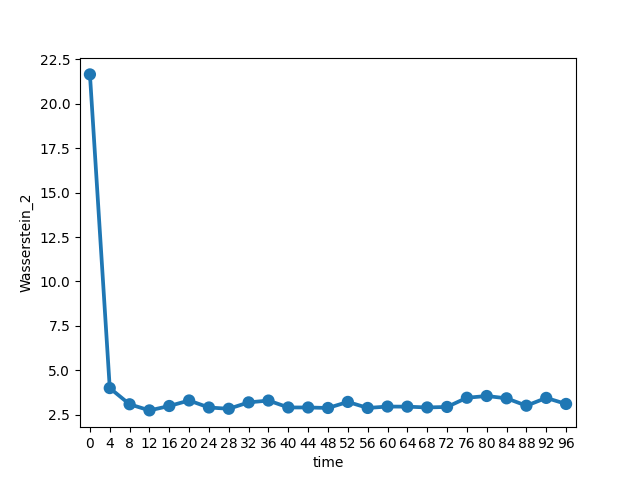
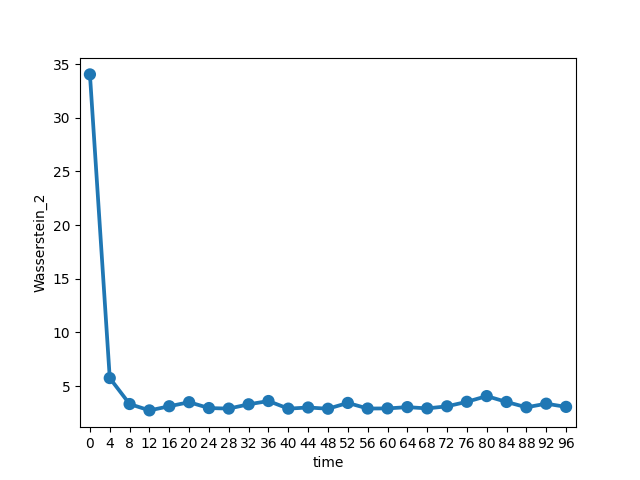
s-div_tf

diff --git a/modules/wasserstein.py b/modules/wasserstein.py
@@ -1,35 +1,5 @@
 import tensorflow as tf
 import numpy as np
-from itertools import permutations
-
-from tensorflow.python.ops.math_ops import reduce_logsumexp
-
-def sample_integers(n, shape):
-    sample = tf.random_uniform(shape, minval=0, maxval=tf.cast(n, 'float32'))
-    sample = tf.cast(sample, 'int32')
-    return sample
-
-def resample_rows_per_column(x):
-    """Permute all rows for each column independently."""
-    n_batch = tf.shape(x)[0]
-    n_dim = tf.shape(x)[1]
-    row_indices = sample_integers(n_batch, (n_batch * n_dim,))
-    col_indices = tf.tile(tf.range(n_dim), [n_batch])
-    indices = tf.transpose(tf.stack([row_indices, col_indices]))
-    x_perm = tf.gather_nd(x, indices)
-    x_perm = tf.reshape(x_perm, (n_batch, n_dim))
-    return x_perm
-
-def z_score(x):
-    """
-    Z_scores each dimension of the data (across axis 0)
-    """
-    #mean_vals = tf.reduce_mean(x,axis=0,keep_dims=True)
-    #std_vals = tf.sqrt(tf.reduce_var(x,axis=0,keep_dims=True))
-    mean_vals,var_vals = tf.nn.moments(x,axes=[0],keep_dims=True)
-    std_vals = tf.sqrt(var_vals)
-    x_normalized = (x - mean_vals)/std_vals
-    return x_normalized
 
 def cost_matrix(x, y, p=2):
     "Returns the cost matrix C_{ij}=|x_i - y_j|^p"
@@ -87,8 +57,84 @@ def sinkhorn_loss(x, y, x_weights=None, y_weights=None, epsilon=0.01, num_iters=
     cost = tf.reduce_sum(pi*C)
     return cost
 
+def compute_cost_matrix(x, y, p=2):
+    m, n = len(x), len(y)
+    c = np.ones((n, m))
+    for i in range(n):
+        for j in range(m):
+            c[i][j] = (np.abs(x[i] - y[j])**p).sum()
+    return c
+
+def lse(x):
+    return np.log(np.exp(x).sum())
+
+def sinkhorn_div_tf(x, y, alpha=None, beta=None, epsilon=0.01, num_iters=50, p=2):
+    c = cost_matrix(x, y, p=p)
+    n, m = x.shape[0], y.shape[0]
+    if alpha is None:
+        alpha = tf.fill((n), 1./n)
+
+    if beta is None:
+        beta = tf.fill((n), 1./n)
+
+    log_alpha = tf.expand_dims(tf.math.log(alpha), 1)
+    log_beta = tf.math.log(beta)
+
+    f, g = 0. * alpha, 0. * beta
+    for _ in range(num_iters):
+        f = - epsilon * tf.reduce_logsumexp(log_beta + (g - c) / epsilon, axis=1)
+        g = - epsilon * tf.reduce_logsumexp(log_alpha + (tf.expand_dims(f, 1) - c) / epsilon, axis=0)
+
+    OT_alpha_beta = tf.reduce_sum(f * alpha) + tf.reduce_sum(g * beta)
+    
+    c = cost_matrix(x, x, p=p)
+    f = 0. * alpha
+    log_alpha = tf.squeeze(log_alpha)
+    for _ in range(int(num_iters/5)):
+        f = 0.5 * (f - epsilon * tf.reduce_logsumexp(log_alpha + (f - c) / epsilon, axis=1) )
+
+    c = cost_matrix(y, y, p=p)
+    g = 0. * alpha
+    for _ in range(int(num_iters/5)):
+        g = 0.5 * (g - epsilon * tf.reduce_logsumexp(log_beta + (g - c) / epsilon, axis=1) )
+    
+    return OT_alpha_beta - tf.reduce_sum(f * alpha) - tf.reduce_sum(g * beta)
+
+
 def sinkhorn_div(x, y, alpha=None, beta=None, epsilon=0.01, num_iters=50, p=2):
-    OT_alpha_beta = sinkhorn_loss(x, y, alpha, beta, epsilon, num_iters, p)
-    OT_alpha_alpha = sinkhorn_loss(x, x, alpha, alpha, epsilon, num_iters, p)
-    OT_beta_beta = sinkhorn_loss(y, y, beta, beta, epsilon, num_iters, p)
-    return OT_alpha_beta - 0.5 * OT_alpha_alpha - 0.5 * OT_beta_beta
+    c = compute_cost_matrix(x, y, p=p)
+    n, m = len(x), len(y)
+    if alpha is None:
+        alpha = np.ones(n) / n
+
+    if beta is None:
+        beta = np.ones(m) / m 
+
+    log_alpha = np.log(alpha)
+    log_beta = np.log(beta)
+
+    f, g = 0. * alpha, 0. * beta
+    for _ in range(num_iters):
+        for i in range(n):
+            f[i] = - epsilon * lse(log_beta + (g - c[i, :]) / epsilon)
+        for j in range(m):
+            g[j] = - epsilon * lse(log_alpha + (f - c[:, j]) / epsilon)
+
+    OT_alpha_beta = np.dot(f, alpha) + np.dot(g, beta)
+
+    c = compute_cost_matrix(x, x, p=p)
+    f = 0. * alpha
+    for _ in range(int(num_iters/5)):
+        for i in range(n):
+            f[i] = 0.5 * (f[i] - epsilon * lse(log_alpha + (f - c[i, :]) / epsilon) )
+
+    c = compute_cost_matrix(y, y, p=p)
+    g = 0. * alpha
+    for _ in range(int(num_iters/5)):
+        for i in range(m):
+            g[i] = 0.5 * (g[i] - epsilon * lse(log_beta + (g - c[i, :]) / epsilon) )
+
+    return OT_alpha_beta - np.dot(f, alpha) - np.dot(g, beta)
+
+
+

diff --git a/wasserstein/stability_W.py b/wasserstein/stability_W.py
@@ -13,7 +13,7 @@ import matplotlib.pyplot as plt
 import pandas as pd
 
 np.random.seed(2021)
-ev_time = 500
+ev_time = 100
 num_obs = 1
 
 expr_folder = 'results_b'
@@ -28,8 +28,8 @@ for i in range(len(configs)):
         config_id_2 = configs[j].split('_')[1][:-5]
         data = {'time': [], 'obs_id':[], 'Wasserstein_2': []}
         for obs in range(num_obs):
-            assml_file_1 = expr_folder + '/{}_seed_{}#3/assimilation.h5'.format(config_id_1, obs)
-            assml_file_2 = expr_folder + '/{}_seed_{}#3/assimilation.h5'.format(config_id_2, obs)
+            assml_file_1 = expr_folder + '/{}_seed_{}#5/assimilation.h5'.format(config_id_1, obs)
+            assml_file_2 = expr_folder + '/{}_seed_{}#5/assimilation.h5'.format(config_id_2, obs)
             print('comparing {} vs {} for observation realization {} ...'.format(config_id_1, config_id_2, obs))
             pf_comp = cd.PFComparison(assml_file_1, assml_file_2)
             data['time'] += list(range(ev_time))

diff --git a/wasserstein/dist_plotter_W.py b/wasserstein/dist_plotter_W.py
@@ -4,14 +4,13 @@ import pandas as pd
 
 config_id_1 = 1
 config_id_2 = 2
-ev_time = 500
-dim = 5
-pf = 'bpf_200_sd'
+ev_time = 100
+dim = 10
+pf = 'bpf_2000_sd'
 df = pd.read_csv('results_b/W_{}_vs_{}.csv'.format(config_id_1, config_id_2))
 df = df.loc[df['time'].isin([4*i for i in range(int(ev_time/4))])]
-sns.boxplot(x=df['time'], y=df['Wasserstein_2'])
-plt.show()
-plt.savefig('dist_plots/W_{}_box_plot_{}_vs_{}_{}.png'.format(dim, config_id_1, config_id_2, pf))
-plt.clf()
+#sns.boxplot(x=df['time'], y=df['Wasserstein_2'])
+#plt.savefig('dist_plots/W_{}_box_plot_{}_vs_{}_{}.png'.format(dim, config_id_1, config_id_2, pf))
+#plt.clf()
 sns.pointplot(x=df['time'], y=df['Wasserstein_2'])
 plt.savefig('dist_plots/W_{}_error_bar_{}_vs_{}_{}.png'.format(dim, config_id_1, config_id_2, pf))

diff --git a/modules/compare_dist.py b/modules/compare_dist.py
@@ -246,7 +246,7 @@ class PFComparison:
             ensemble_2 = np.array(getattr(hdf5_2.root.particles, 'time_' + str(itr)).read().tolist())
             ensemble_1 = tf.convert_to_tensor(ensemble_1, dtype=tf.float32)
             ensemble_2 = tf.convert_to_tensor(ensemble_2, dtype=tf.float32)
-            w_dist[itr] = ws.sinkhorn_div(ensemble_1, ensemble_2, epsilon=epsilon, num_iters=num_iter, p=p) #** (1.0/p)
+            w_dist[itr] = ws.sinkhorn_div_tf(ensemble_1, ensemble_2, epsilon=epsilon, num_iters=num_iter, p=p) #** (1.0/p)
             #print(w_dist)
         hdf5_1.close()
         hdf5_2.close()
